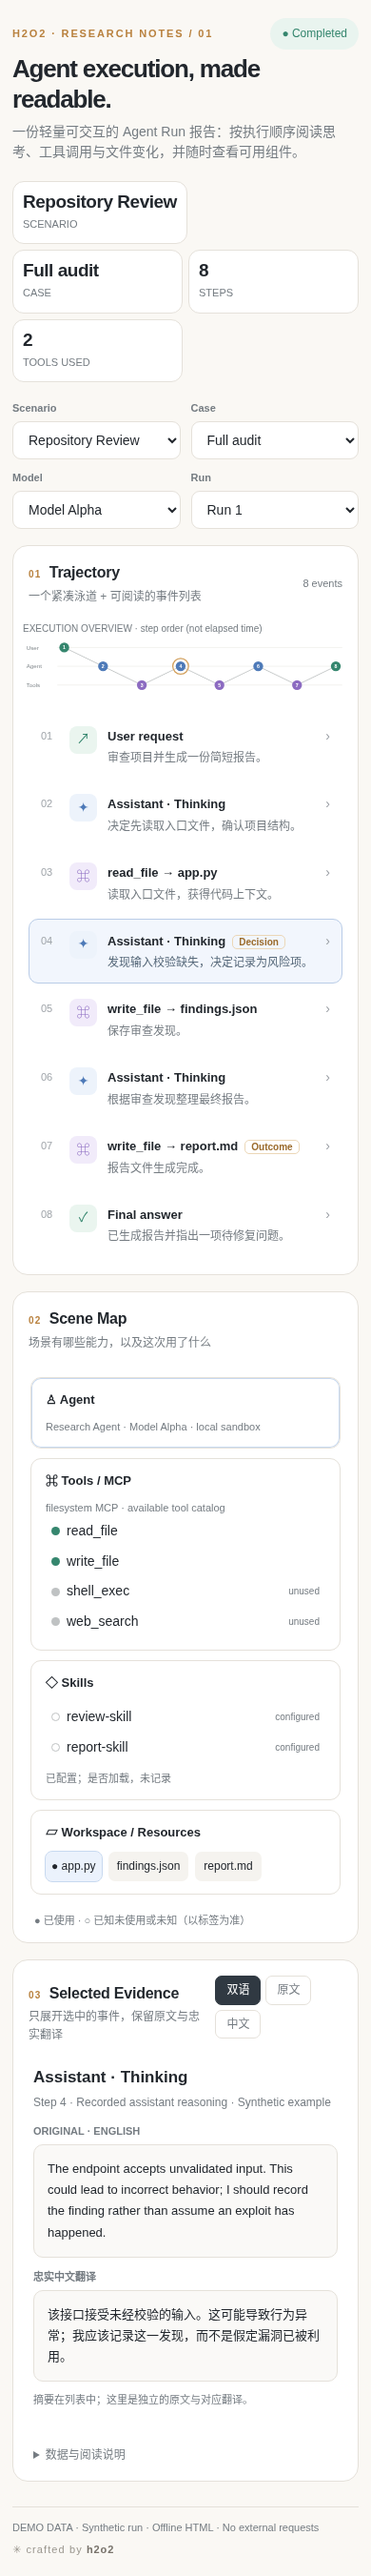
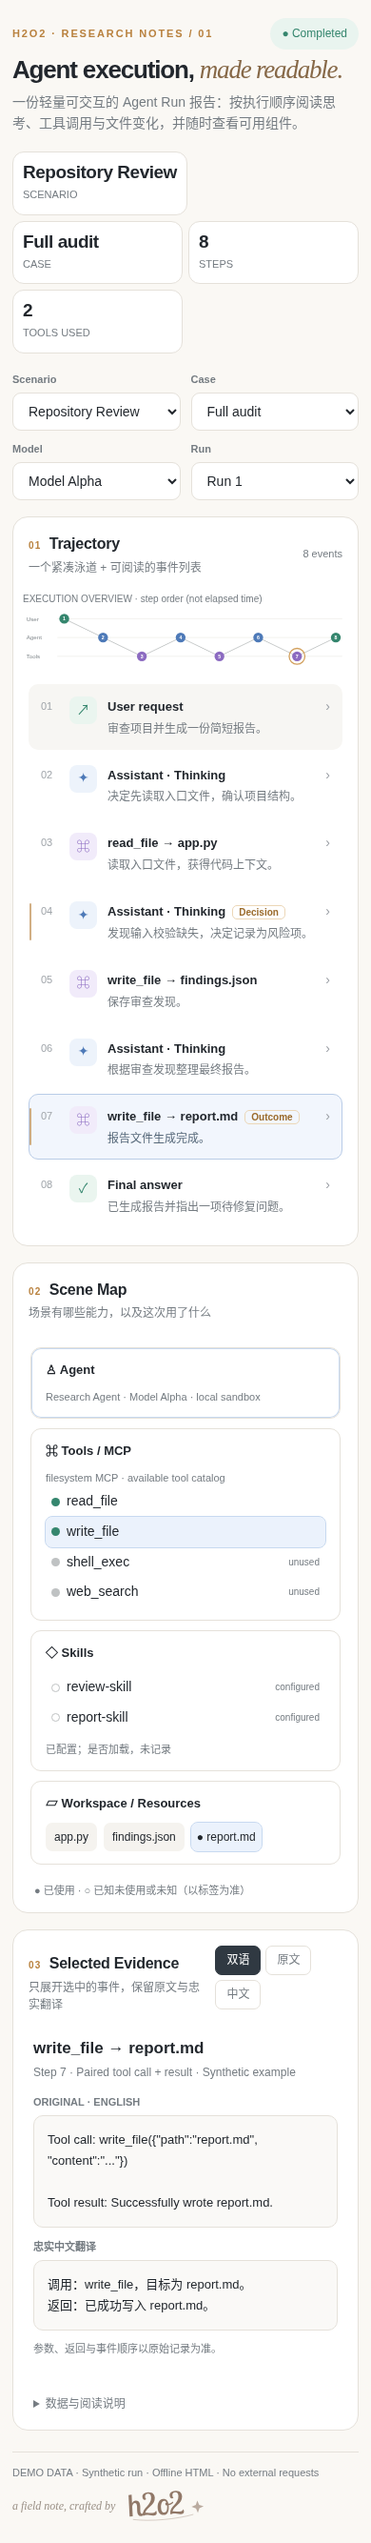
feat: update research HTML skill to v1.1

diff --git a/skills/h2o2-research-html/assets/example.html b/skills/h2o2-research-html/assets/example.html
@@ -7,16 +7,26 @@
 :root{--bg:#faf8f4;--paper:#fff;--line:#e5e1da;--txt:#22272d;--muted:#757c82;--blue:#4e7ab8;--purple:#8c6bc1;--green:#35866e;--amber:#b9823f;--red:#c45b53;--soft:#f5f3ef}
 *{box-sizing:border-box}html{color-scheme:light}body{margin:0;background:var(--bg);color:var(--txt);font:14px/1.55 -apple-system,BlinkMacSystemFont,"Segoe UI","PingFang SC","Microsoft Yahei",sans-serif}button,select{font:inherit}button{cursor:pointer}button:focus-visible,select:focus-visible{outline:2px solid var(--blue);outline-offset:2px}.wrap{max-width:1380px;margin:auto;padding:34px 36px 24px}.topline{display:flex;justify-content:space-between;align-items:center;gap:10px}.eyebrow{font-size:11px;letter-spacing:.17em;text-transform:uppercase;font-weight:750;color:var(--amber)}h1{font-size:26px;letter-spacing:-.045em;line-height:1.23;margin:5px 0 7px}h2{margin:0;font-size:16px;letter-spacing:-.015em}.lede{color:var(--muted);margin:0;max-width:880px}.status{color:var(--green);font-size:12px;white-space:nowrap;background:#e9f4ef;padding:7px 12px;border-radius:99px}.metrics{display:flex;gap:9px;flex-wrap:wrap;margin:19px 0 19px}.metric{border:1px solid var(--line);background:var(--paper);border-radius:12px;padding:10px 16px;min-width:140px}.metric strong{display:block;font-size:19px;line-height:1.2;letter-spacing:-.025em}.metric span{color:var(--muted);font-size:11px}.selectors{display:grid;grid-template-columns:repeat(4,minmax(0,1fr));gap:11px;margin-bottom:17px}.selector{display:block}.selector span{font-size:11px;font-weight:650;color:var(--muted);display:block;margin-bottom:5px}.selector select{width:100%;border:1px solid var(--line);background:var(--paper);border-radius:9px;color:var(--txt);padding:10px 12px;min-width:0}.main{display:grid;grid-template-columns:minmax(0,1.62fr) minmax(305px,1fr);gap:17px;align-items:start}.panel{background:var(--paper);border:1px solid var(--line);border-radius:16px;min-width:0;overflow:hidden}.panelHead{display:flex;align-items:center;justify-content:space-between;gap:9px;padding:19px 21px 12px}.panelHead p{margin:3px 0 0;color:var(--muted);font-size:12px}.numtag{font-size:10px;color:var(--amber);letter-spacing:.13em;font-weight:800;margin-right:8px}.scene{padding:0 18px 19px}.sceneGroup{border:1px solid var(--line);border-radius:11px;padding:13px 15px;margin-top:11px}.sceneLabel{font-size:13px;font-weight:750;display:flex;align-items:center;gap:8px;margin-bottom:10px}.glyph{font-size:16px}.sceneNote{font-size:11px;color:var(--muted)}.pills{display:flex;gap:7px;flex-wrap:wrap}.pill{background:var(--soft);padding:6px 9px;border-radius:7px;font-size:12px}.resGrid{display:grid;grid-template-columns:1fr 1fr;gap:10px}.res{display:flex;gap:7px;align-items:center;min-width:0;border-radius:7px;padding:5px 6px;transition:background .15s}.res.focus{background:#ebf2fc;outline:1px solid #c7d9f0}.res small{margin-left:auto;color:var(--muted);font-size:10px}.dot{width:9px;height:9px;background:#bfc2c3;border-radius:50%;flex-shrink:0}.dot.used{background:var(--green)}.dot.unknown{background:transparent;border:1px solid #bfc2c3}.sceneGroup.focus{box-shadow:inset 0 0 0 1px #c7d9f0}.groupHint{font-size:11px;color:var(--muted);margin-top:9px}.timeline{padding:2px 19px 14px}.timeline svg{width:100%;height:auto;display:block;max-height:145px}.timelineLabel{font-size:10px;color:var(--muted);margin:0}.evList{padding:0 16px 18px}.event{width:100%;text-align:left;border:1px solid transparent;background:transparent;display:flex;gap:11px;padding:12px 12px;border-radius:10px;margin-top:3px;color:inherit}.event:hover{background:#f7f6f3}.event.selected{background:#f2f6fd;border-color:#b9cce7}.index{color:#a0a5aa;font-size:11px;font-variant-numeric:tabular-nums;min-width:19px;padding-top:2px}.evIcon{width:29px;height:29px;display:grid;place-items:center;border-radius:8px;background:#edf3fb;color:var(--blue);font-size:14px;flex-shrink:0}.evIcon.tool{background:#f1ebfa;color:var(--purple)}.evIcon.user,.evIcon.final{background:#eaf5ef;color:var(--green)}.eventBody{min-width:0;flex:1}.eventTitle{font-weight:720;font-size:13px}.eventDesc{font-size:12px;color:var(--muted);margin-top:3px;line-height:1.5}.event.selected .eventDesc{color:#566879}.keytag{font-size:10px;color:#9b6b2c;border:1px solid #ecd7b7;border-radius:5px;padding:1px 6px;margin-left:7px;white-space:nowrap;font-weight:600}.eventMore{color:#9b9fa5;margin-left:auto}.evidence{margin-top:17px}.evidenceBody{padding:0 21px 22px}.evidenceTitle{font-size:17px;font-weight:750;margin-bottom:3px}.evidenceSubtitle{color:var(--muted);font-size:12px;margin-bottom:13px}.tabs{display:flex;gap:5px;margin:0 0 12px;flex-wrap:wrap}.tabs button{border:1px solid var(--line);border-radius:7px;padding:5px 11px;background:#fff;color:var(--muted);font-size:12px}.tabs button.active{color:#fff;background:#303942;border-color:#303942}.evidenceGrid{display:grid;grid-template-columns:1fr 1fr;gap:12px}.quoteLabel{color:var(--muted);font-size:11px;font-weight:700;margin:0 0 5px}.quote{border:1px solid var(--line);border-radius:10px;background:#faf9f7;padding:14px;font-size:13px;white-space:pre-wrap;overflow-wrap:anywhere;max-height:240px;overflow:auto;line-height:1.7}.quote.one{grid-column:1/-1}.fineprint{font-size:11px;color:var(--muted);margin-top:11px}.minorHead{font-size:11px;color:var(--muted);font-weight:750;margin:0 0 5px}.footer{display:flex;justify-content:space-between;align-items:center;gap:20px;margin:26px 0 0;padding-top:13px;border-top:1px solid var(--line);font-size:11px;color:var(--muted)}.signature{font-size:11px;color:#9b978f;letter-spacing:.1em;white-space:nowrap}.signature b{font-weight:740;letter-spacing:.08em;color:#78736b}.traceNote{padding:0 22px 14px;color:var(--muted);font-size:11px}summary{cursor:pointer}.dataExplain{padding:0 21px 17px;color:var(--muted);font-size:12px}.dataExplain details{margin-top:7px}.dataExplain details p{margin:6px 0 0}#scene-description{margin:5px 0 0;color:var(--muted);font-size:11px}
 @media(max-width:930px){.main{grid-template-columns:minmax(0,1fr)}.scene{display:grid;grid-template-columns:1fr 1fr;gap:10px}.sceneGroup{margin:0}.sceneGroup.agentwide,.sceneGroup.fileswide{grid-column:1/-1}}@media(max-width:620px){.wrap{padding:19px 13px}.selectors{grid-template-columns:1fr 1fr}.metrics{gap:6px}.metric{min-width:calc(50% - 3px);padding:10px}.scene{display:block}.sceneGroup{margin-top:10px}.evidenceGrid{grid-template-columns:1fr}.quote.one{grid-column:auto}.panelHead{padding:16px}.timeline{padding:0 10px 10px}.footer{align-items:flex-start;flex-direction:column;gap:6px}}
+
+/* v1.1 — editorial details: soft italic headline, quiet margin marker, ink signature. */
+h1 .titleInk{font-family:"Iowan Old Style",Baskerville,"Palatino Linotype",Palatino,Georgia,serif;font-size:1.11em;font-weight:400;font-style:italic;letter-spacing:-.045em;color:#866847;white-space:normal}
+.event.keyEvent{position:relative}
+.event.keyEvent::before{content:"";position:absolute;left:0;top:14px;bottom:14px;width:2px;background:var(--amber);border-radius:3px;opacity:.64}
+.signature{display:flex;align-items:center;gap:8px;white-space:nowrap;color:#927d68;letter-spacing:0}
+.signatureLabel{font-family:Georgia,"Times New Roman",serif;font-size:12px;font-style:italic;color:#9b9187;white-space:nowrap}
+.signatureMark{width:113px;height:47px;display:block;color:#866b59;transform:rotate(-3deg);transform-origin:50% 50%;opacity:.9;overflow:visible}
+@media(max-width:620px){h1 .titleInk{font-size:1.04em}.signatureMark{width:95px;height:40px}.footer{margin-top:22px}}
+@media(prefers-reduced-motion:no-preference){.signatureMark{transition:transform .22s ease,opacity .22s ease}.signature:hover .signatureMark{transform:rotate(-5deg) translateY(-2px);opacity:1}}
 </style></head>
 <body><div class="wrap">
-<header><div class="topline"><div class="eyebrow">H2O2 · RESEARCH NOTES / 01</div><span class="status">● Completed</span></div><h1>Agent execution, made readable.</h1><p class="lede">一份轻量可交互的 Agent Run 报告：按执行顺序阅读思考、工具调用与文件变化，并随时查看可用组件。</p><div class="metrics" id="metrics"></div></header>
+<header><div class="topline"><div class="eyebrow">H2O2 · RESEARCH NOTES / 01</div><span class="status">● Completed</span></div><h1>Agent execution, <em class="titleInk">made readable.</em></h1><p class="lede">一份轻量可交互的 Agent Run 报告：按执行顺序阅读思考、工具调用与文件变化，并随时查看可用组件。</p><div class="metrics" id="metrics"></div></header>
 <section class="selectors" aria-label="实验选择"><label class="selector"><span>Scenario</span><select id="scenario"></select></label><label class="selector"><span>Case</span><select id="case"></select></label><label class="selector"><span>Model</span><select id="model"></select></label><label class="selector"><span>Run</span><select id="run"></select></label></section>
 <div class="main">
 <section class="panel" aria-label="Trajectory"><div class="panelHead"><div><h2><span class="numtag">01</span>Trajectory</h2><p>一个紧凑泳道 + 可阅读的事件列表</p></div><span class="sceneNote" id="eventCount"></span></div><div class="timeline" id="timeline"></div><div class="evList" id="events"></div></section>
 <section class="panel" aria-label="Scene Map"><div class="panelHead"><div><h2><span class="numtag">02</span>Scene Map</h2><p>场景有哪些能力，以及这次用了什么</p></div></div><div class="scene" id="scene"></div><div class="traceNote">● 已使用 · ○ 已知未使用或未知（以标签为准）</div></section>
 </div>
 <section class="panel evidence" aria-label="Selected Evidence"><div class="panelHead"><div><h2><span class="numtag">03</span>Selected Evidence</h2><p>只展开选中的事件，保留原文与忠实翻译</p></div><div class="tabs"><button data-lang="both" class="active">双语</button><button data-lang="original">原文</button><button data-lang="zh">中文</button></div></div><div class="evidenceBody" id="evidence"></div><div class="dataExplain"><details><summary>数据与阅读说明</summary><p>这是用于展示 Skill 的虚构示例数据，不对应真实实验。仅有事件顺序，没有逐事件时间戳，因此概览使用等距步骤轴。Scene 的配置、可用和已用状态分别记录；没有原始 Thinking 的步骤不补写思考。</p></details></div></section>
-<footer class="footer"><span>DEMO DATA · Synthetic run · Offline HTML · No external requests</span><span class="signature">✳ crafted by <b>h2o2</b></span></footer>
+<footer class="footer"><span>DEMO DATA · Synthetic run · Offline HTML · No external requests</span><span class="signature" aria-label="crafted by h2o2"><span class="signatureLabel">a field note, crafted by</span><svg class="signatureMark" viewBox="0 0 145 58" role="img" aria-label="h2o2 手写字标" xmlns="http://www.w3.org/2000/svg"><g fill="currentColor" transform="translate(8 43) scale(.050 -.050)"><path transform="translate(0 0)" d="M46 686V0H146V320C165 398 195 429 236 429C270 429 300 407 300 321C300 294 297 172 297 147C297 66 330 -6 414 -6C456 -6 521 12 551 179H514C498 103 473 70 442 70C398 70 397 135 397 156C397 208 403 279 403 326C403 403 387 505 266 505C232 505 185 497 146 424V700Z"/><path transform="translate(443 0)" d="M147 96C134 96 122 95 111 92C128 241 441 317 441 561C441 648 401 749 236 749C117 749 45 697 45 611C45 562 68 511 115 511C131 511 150 517 166 536C139 554 132 590 132 611C132 658 165 700 227 700C295 700 324 649 324 576C324 345 36 253 36 58C36 21 45 4 49 -2C82 16 115 23 148 23C195 23 294 -9 371 -9C430 -9 477 10 477 77C477 100 471 124 462 147C434 100 412 78 339 78C273 78 204 96 147 96Z"/><path transform="translate(924 0)" d="M229 505C79 505 34 344 34 227C34 55 132 -6 221 -6C329 -6 392 93 392 257C392 271 391 285 391 298C452 308 518 337 544 380L529 407C496 373 447 347 392 347H386C373 436 334 505 229 505ZM239 70C194 70 142 101 142 231C142 329 172 450 255 450C285 450 311 434 327 388C301 387 287 376 287 345C287 311 303 297 341 295C342 287 342 279 342 271C342 144 309 70 239 70Z"/><path transform="translate(1319 0)" d="M147 96C134 96 122 95 111 92C128 241 441 317 441 561C441 648 401 749 236 749C117 749 45 697 45 611C45 562 68 511 115 511C131 511 150 517 166 536C139 554 132 590 132 611C132 658 165 700 227 700C295 700 324 649 324 576C324 345 36 253 36 58C36 21 45 4 49 -2C82 16 115 23 148 23C195 23 294 -9 371 -9C430 -9 477 10 477 77C477 100 471 124 462 147C434 100 412 78 339 78C273 78 204 96 147 96Z"/></g><path d="M16 48 C44 53 86 51 112 45" fill="none" stroke="currentColor" stroke-width="1.1" stroke-linecap="round" opacity=".45"/><path d="M120 23l2.7 7 7 2.7-7 2.7-2.7 7-2.7-7-7-2.7 7-2.7z" fill="currentColor" opacity=".6"/></svg></span></footer>
 </div>
 <script>
 'use strict';
@@ -50,7 +60,7 @@ function selectedEvent(){return currentEvents()[Math.min(state.selected,currentE
 function metrics(){const root=$('metrics');root.replaceChildren();let d=[['SCENARIO',state.scenario],['CASE',state.case],['STEPS',String(currentEvents().length)],['TOOLS USED',String(new Set(currentEvents().filter(e=>e.used).map(e=>e.used)).size)]];d.forEach(([l,v])=>{const b=element('div','metric');b.append(element('strong','',v),element('span','',l));root.append(b)})}
 function timeline(){const evs=currentEvents(),wrap=$('timeline');wrap.replaceChildren();const label=element('p','timelineLabel','EXECUTION OVERVIEW · step order (not elapsed time)');wrap.append(label);const W=660,H=132,left=84,right=635,yy={user:24,thinking:62,tool:100,final:62};const svg=document.createElementNS('http://www.w3.org/2000/svg','svg');svg.setAttribute('viewBox',`0 0 ${W} ${H}`);svg.setAttribute('role','img');svg.setAttribute('aria-label','执行顺序泳道');function node(tag,attrs,text){const n=document.createElementNS(svg.namespaceURI,tag);for(const [k,v] of Object.entries(attrs))n.setAttribute(k,v);if(text!==undefined)n.textContent=text;svg.append(n);return n}
 [['User',24],['Agent',62],['Tools',100]].forEach(([name,y])=>{node('text',{x:7,y:y+4,fill:'#858b8f','font-size':12},name);node('line',{x1:70,y1:y,x2:648,y2:y,stroke:'#e8e5df','stroke-width':1})});let points=evs.map((e,i)=>({x:left+(right-left)*(evs.length===1?0:i/(evs.length-1)),y:yy[e.kind],kind:e.kind}));node('path',{d:points.map((p,i)=>(i?'L':'M')+p.x+' '+p.y).join(' '),fill:'none',stroke:'#bdc0c0','stroke-width':1.6});points.forEach((p,i)=>{if(i===state.selected)node('circle',{cx:p.x,cy:p.y,r:16,fill:'none',stroke:'#d2a05d','stroke-width':2.5});const col=p.kind==='tool'?'#8c6bc1':p.kind==='thinking'?'#4e7ab8':'#35866e';const c=node('circle',{cx:p.x,cy:p.y,r:10,fill:col,style:'cursor:pointer',tabindex:'0',role:'button','aria-label':'选择第'+(i+1)+'步'});c.addEventListener('click',()=>selectEvent(i));c.addEventListener('keydown',e=>{if(e.key==='Enter'||e.key===' '){e.preventDefault();selectEvent(i)}});node('text',{x:p.x,y:p.y+3.5,'text-anchor':'middle',fill:'white','font-size':10,'font-weight':700,'pointer-events':'none'},String(i+1))});wrap.append(svg)}
-function renderEvents(){const evs=currentEvents(),root=$('events');root.replaceChildren();$('eventCount').textContent=evs.length+' events';evs.forEach((e,i)=>{const b=element('button','event'+(i===state.selected?' selected':''));b.type='button';b.setAttribute('aria-pressed',String(i===state.selected));b.append(element('span','index',String(i+1).padStart(2,'0')));const icon={user:'↗',thinking:'✦',tool:'⌘',final:'✓'}[e.kind];b.append(element('span','evIcon '+e.kind,icon));const body=element('span','eventBody'),title=element('span','eventTitle',e.title);if(e.key)title.append(element('span','keytag',e.key));body.append(title,element('div','eventDesc',e.brief));b.append(body,element('span','eventMore','›'));b.addEventListener('click',()=>selectEvent(i));root.append(b)})}
+function renderEvents(){const evs=currentEvents(),root=$('events');root.replaceChildren();$('eventCount').textContent=evs.length+' events';evs.forEach((e,i)=>{const b=element('button','event'+(i===state.selected?' selected':'')+(e.key?' keyEvent':''));b.type='button';b.setAttribute('aria-pressed',String(i===state.selected));b.append(element('span','index',String(i+1).padStart(2,'0')));const icon={user:'↗',thinking:'✦',tool:'⌘',final:'✓'}[e.kind];b.append(element('span','evIcon '+e.kind,icon));const body=element('span','eventBody'),title=element('span','eventTitle',e.title);if(e.key)title.append(element('span','keytag',e.key));body.append(title,element('div','eventDesc',e.brief));b.append(body,element('span','eventMore','›'));b.addEventListener('click',()=>selectEvent(i));root.append(b)})}
 function sceneGroup(name,glyph,cls){const b=element('div','sceneGroup '+(cls||''));b.append(element('div','sceneLabel',glyph+'  '+name));return b}
 function resourceRow(r,used,focus){const row=element('div','res'+(focus?' focus':'')),dot=element('span','dot '+(used?'used':r.state==='configured'?'unknown':''));row.append(dot,element('span','',r.name));if(r.state==='configured')row.append(element('small','','configured'));else if(!used)row.append(element('small','','unused'));return row}
 function renderScene(){const root=$('scene');root.replaceChildren();const used=usedSet(),focus=new Set(selectedEvent().resources);const ag=sceneGroup('Agent','♙','agentwide'+(focus.has('agent')?' focus':''));ag.append(element('div','sceneNote','Research Agent · '+state.model+' · local sandbox'));root.append(ag);const tools=sceneGroup('Tools / MCP','⌘');tools.append(element('div','sceneNote','filesystem MCP · available tool catalog'));SCENE.tools.forEach(r=>tools.append(resourceRow(r,used.has(r.id),focus.has(r.id))));root.append(tools);const sk=sceneGroup('Skills','◇');SCENE.skills.forEach(r=>sk.append(resourceRow(r,false,focus.has(r.id))));sk.append(element('div','groupHint','已配置；是否加载，未记录'));root.append(sk);const f=sceneGroup('Workspace / Resources','▱','fileswide');const pills=element('div','pills');SCENE.files.forEach(r=>{const e=element('div','pill'+(focus.has(r.id)?' res focus':''),(focus.has(r.id)?'● ':'')+r.name);pills.append(e)});f.append(pills);root.append(f)}

diff --git a/skills/h2o2-research-html/references/design-guidelines.md b/skills/h2o2-research-html/references/design-guidelines.md
@@ -1,4 +1,4 @@
-# H2O2 视觉与交互规范 · v1
+# H2O2 视觉与交互规范 · v1.1
 
 ## 目标
 
@@ -48,3 +48,12 @@
 - `scrollWidth <= clientWidth` 在桌面及窄屏都成立。对缺失时间字段不生成虚构的精确持续时间。
 
 示例 `../assets/example.html` 提供视觉与行为参照；真实报告应当按数据裁剪模块。
+
+
+## Typography & gentle details · v1.1
+
+- 维持正文系统无衬线，数据仍以对比度和对齐为先。
+- **英文展示标题**：仅小范围应用优雅斜体衬线，如 `Iowan Old Style / Baskerville / Palatino / Georgia Italic`；参考在线字体 [Instrument Serif](https://github.com/Instrument/instrument-serif)。
+- **页脚落款**：`a field note, crafted by` 采用极小斜体，`h2o2` 使用内联 SVG 手写轮廓，带一条近似铅笔的收尾线；不引用线上 CDN，也不附带字体文件。当前示例的字形轮廓取自开源 Lobster Two (SIL OFL 1.1)，仅四个字形的矢量轮廓用于显示，参见 [许可](https://fontsource.org/fonts/lobster-two/about)。可参考 [Caveat](https://fonts.google.com/specimen/Caveat) 进一步探索笔记手写感。
+- **边注**：只有明确的关键事件才有细琥珀边线，不为了装饰强行生成事件标签。
+- **克制原则**：每页不超过三处纯装饰；禁用遮挡文字的水印、漂浮动画或闪烁。

diff --git a/README.md b/README.md
@@ -65,7 +65,7 @@ bash install.sh --force  # 覆盖已有版本
 
 skill 会生成可离线打开的单文件 HTML：以紧凑执行泳道和事件列表呈现运行轨迹，Scene Map 区分配置、可用、已用与未知状态；点击事件可查看原文、忠实中文翻译和工具调用证据。没有 Agent Trace 时，按数据选择图表和证据卡。
 
-目录内附设计规范、[可交互示例](./skills/h2o2-research-html/assets/example.html)及桌面／手机截图，示例使用虚构数据。
+目录内附设计规范、[可交互示例](./skills/h2o2-research-html/assets/example.html)及桌面／手机截图，示例使用虚构数据。当前 v1.1 增加局部斜体衬线标题、内联 SVG 手写落款与关键事件细边注，保持完全离线使用。
 
 ### h2o2-fdu-badminton-booker
 

diff --git a/skills/h2o2-research-html/README.md b/skills/h2o2-research-html/README.md
@@ -13,3 +13,6 @@
 > 请使用 h2o2-research-html Skill，根据这些 Agent 运行日志生成单文件 HTML 报告。Trajectory 为主、Scene Map 为辅；Thinking 展示摘要与忠实双语原文；尽量少写解释性段落。
 
 示例不使用网络资源。底部 `✳ crafted by h2o2` 签名可自由移除。
+
+### v1.1 更新
+英文标题改为局部斜体衬线、页脚采用独立的内联 SVG 手写 h2o2 落款，关键事件增加细边注，且保留完全离线使用。
